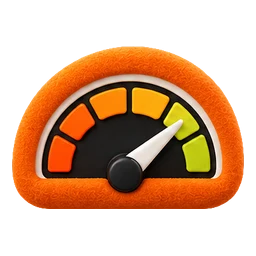
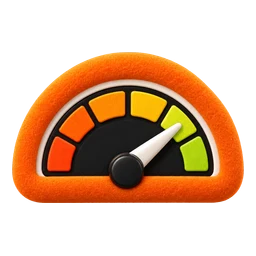
fix: medidor de nivel completo y botón "Admin" en el footer
- El ícono del test de nivel venía cortado a la derecha desde la imagen
  original: se rehízo en ChatGPT como ícono suelto, completo y simétrico.
- El botón del footer dice solo "Admin" con el candado (sin la flecha) y
  va al ancho de su contenido.

Changed region(s): [[0.0312, 0.1562, 0.9688, 0.8438], [0.5625, 0.5312, 0.5938, 0.5625], [0.0312, 0.6875, 0.0625, 0.7188]]

diff --git a/components/Footer.jsx b/components/Footer.jsx
@@ -125,13 +125,12 @@ export default function Footer({ location = DEFAULT }) {
               <a
                 href="/admin"
                 className="footer-admin-card-btn"
-                aria-label="Panel de Control: administración del club"
+                aria-label="Admin: panel de administración del club"
               >
                 <span className="footer-admin-icon" aria-hidden="true">
                   <Image src="/img/iconos/biblioteca/icono-candado.webp" alt="" width={26} height={26} className="icono-3d" />
                 </span>
-                <span>Panel de Control</span>
-                <span className="footer-admin-arrow" aria-hidden="true">↗</span>
+                <span>Admin</span>
               </a>
             </div>
           </div>

diff --git a/app/fondo-cancha.css b/app/fondo-cancha.css
@@ -619,8 +619,12 @@
   flex-shrink: 0;
 }
 
-.footer-admin-card-btn .footer-admin-arrow {
-  margin-left: auto;
+/* Solo "Admin" y el candado: el botón va al ancho de su contenido. */
+.footer-admin-card-btn {
+  align-self: flex-start;
+  padding-right: 22px;
+  font-size: 15px;
+  letter-spacing: 0.04em;
 }
 
 .footer-credit {
